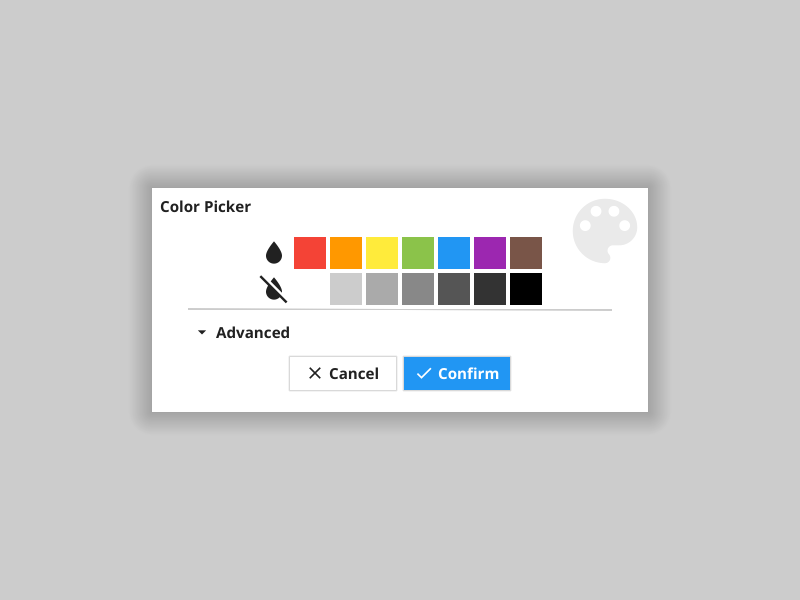
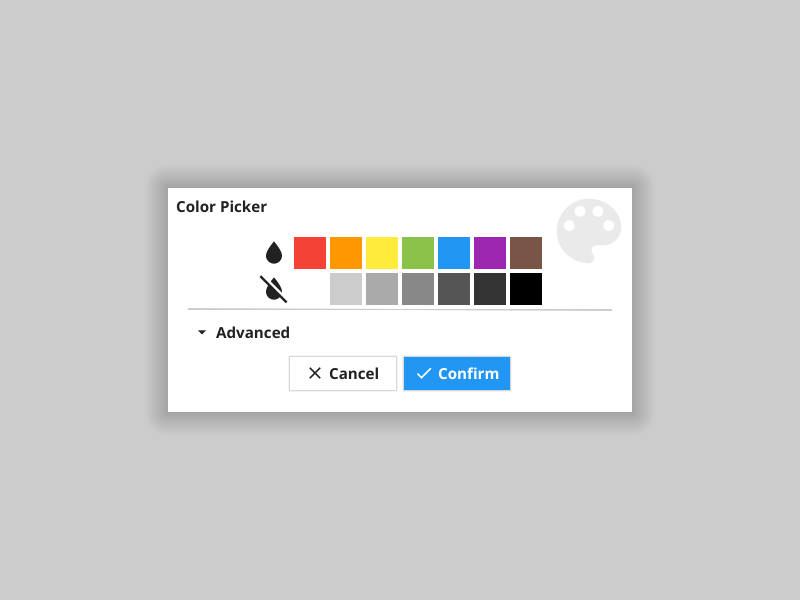
Fix dialog content to expand instead of use min size. (#1367)
* Fix dialog content to expand instead of use min size.

* Dialog already provides horizontal padding on its edges.

* Increase horizontal padding and update test images

* Update to use const width padding for horizontal padding

* Center the text in the label in the base test

* Make content sizing code read clearer

* Remove extra padding and improve code readability for sizing

* Use padHeight instead of theme.Padding() between label and content

* Update color dialog images to work with dialog changes

* I think this file slipped in by accident. Not sure what it is.

Changed region(s): [[0.1562, 0.3, 0.3438, 0.69], [0.7812, 0.3, 0.8438, 0.69]]

diff --git a/dialog/base.go b/dialog/base.go
@@ -108,10 +108,9 @@ func (d *dialog) Show() {
 }
 
 func (d *dialog) Layout(obj []fyne.CanvasObject, size fyne.Size) {
-	d.bg.Move(fyne.NewPos(-theme.Padding(), -theme.Padding()))
-	d.bg.Resize(size.Add(fyne.NewSize(theme.Padding()*2, theme.Padding()*2)))
+	d.bg.Move(fyne.NewPos(0, 0))
+	d.bg.Resize(size)
 
-	textMin := obj[2].MinSize()
 	btnMin := obj[3].MinSize().Union(obj[3].Size())
 
 	// icon
@@ -119,21 +118,23 @@ func (d *dialog) Layout(obj []fyne.CanvasObject, size fyne.Size) {
 	obj[0].Resize(fyne.NewSize(iconHeight, iconHeight))
 	obj[0].Move(fyne.NewPos(size.Width-iconHeight+theme.Padding(), -theme.Padding()))
 
-	// content (text)
-	obj[2].Move(fyne.NewPos(size.Width/2-(textMin.Width/2), size.Height-padHeight-btnMin.Height-textMin.Height-theme.Padding()))
-	obj[2].Resize(fyne.NewSize(textMin.Width, textMin.Height))
-
 	// buttons
 	obj[3].Resize(btnMin)
 	obj[3].Move(fyne.NewPos(size.Width/2-(btnMin.Width/2), size.Height-padHeight-btnMin.Height))
+
+	// content
+	contentStart := d.label.Position().Y + d.label.MinSize().Height + padHeight
+	contentEnd := obj[3].Position().Y - theme.Padding()
+	obj[2].Move(fyne.NewPos((padWidth / 2), d.label.MinSize().Height+padHeight))
+	obj[2].Resize(fyne.NewSize(size.Width-padWidth, contentEnd-contentStart))
 }
 
 func (d *dialog) MinSize(obj []fyne.CanvasObject) fyne.Size {
-	textMin := obj[2].MinSize()
+	contentMin := obj[2].MinSize()
 	btnMin := obj[3].MinSize().Union(obj[3].Size())
 
-	width := fyne.Max(fyne.Max(textMin.Width, btnMin.Width), obj[4].MinSize().Width) + padWidth*2
-	height := textMin.Height + btnMin.Height + d.label.MinSize().Height + theme.Padding() + padHeight*2
+	width := fyne.Max(fyne.Max(contentMin.Width, btnMin.Width), obj[4].MinSize().Width) + padWidth
+	height := contentMin.Height + btnMin.Height + d.label.MinSize().Height + theme.Padding() + padHeight*2
 
 	return fyne.NewSize(width, height)
 }

diff --git a/dialog/base_test.go b/dialog/base_test.go
@@ -15,7 +15,11 @@ func TestShowCustom_ApplyTheme(t *testing.T) {
 	test.ApplyTheme(t, theme.DarkTheme())
 	w := test.NewWindow(canvas.NewRectangle(color.Transparent))
 	w.Resize(fyne.NewSize(300, 200))
-	d := NewCustom("Title", "OK", widget.NewLabel("Content"), w)
+
+	label := widget.NewLabel("Content")
+	label.Alignment = fyne.TextAlignCenter
+
+	d := NewCustom("Title", "OK", label, w)
 
 	d.Show()
 	test.AssertImageMatches(t, "dialog-custom-dark.png", w.Canvas().Capture())
